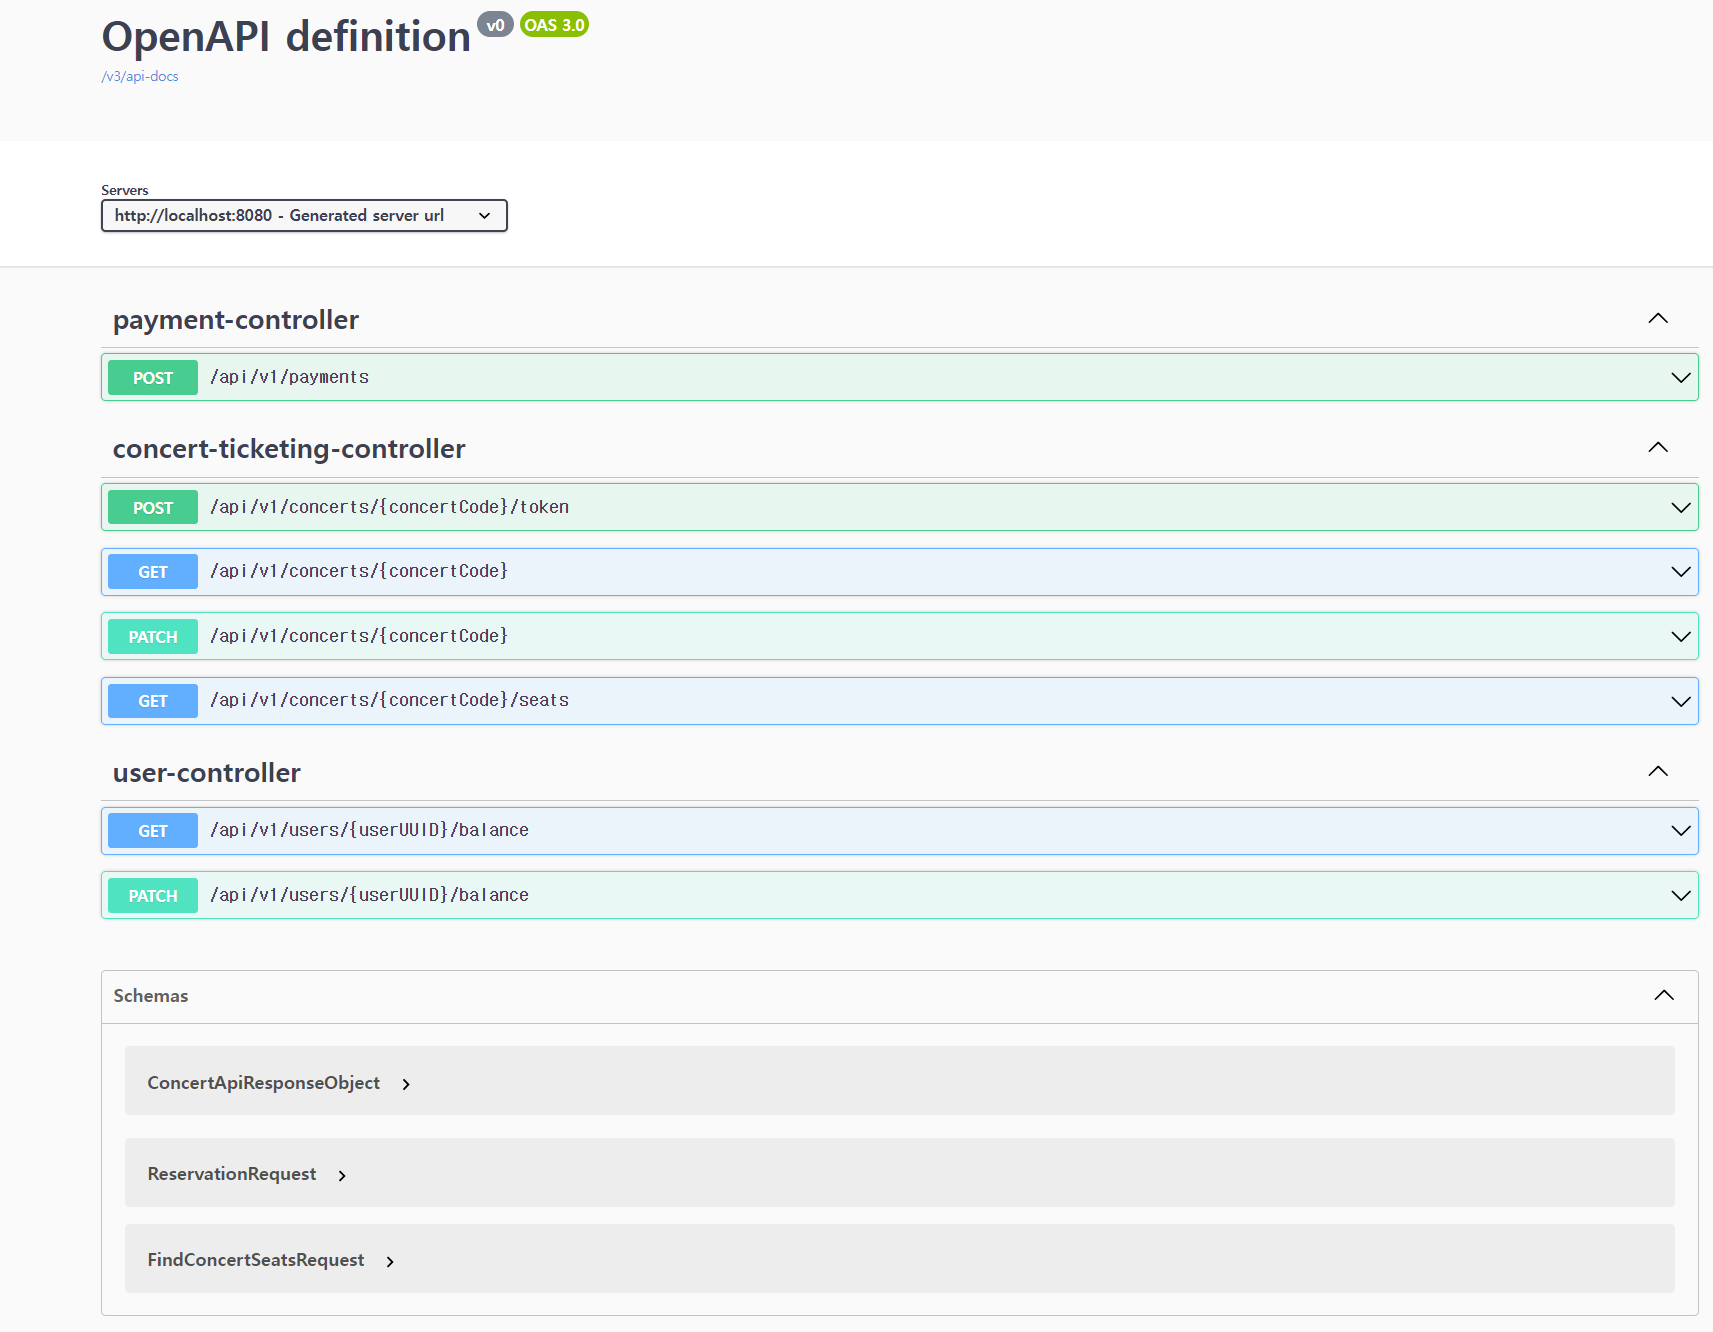
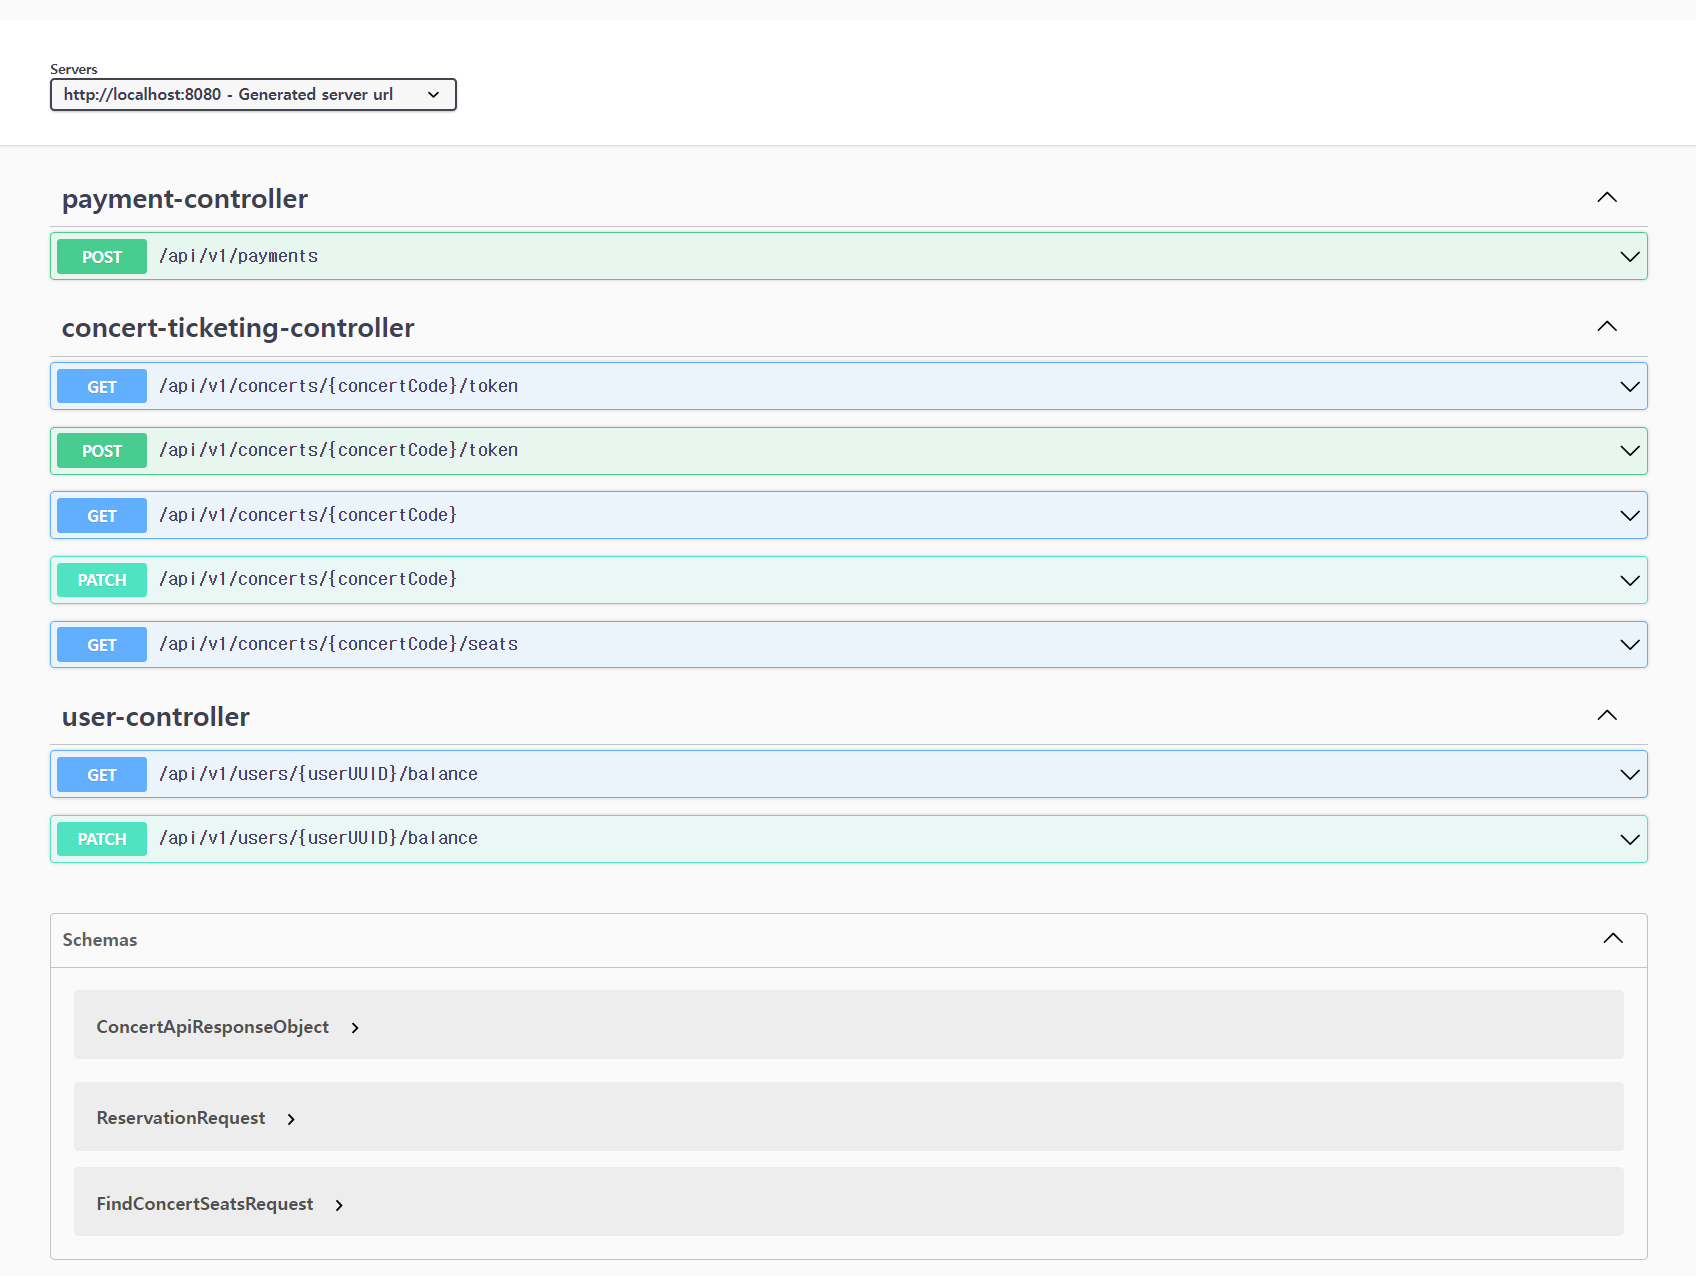
Interceptor 수정

diff --git a/chapter2/ticketing/src/main/java/com/example/ticketing/server/interceptor/token/component/QueueTokenInterceptor.java b/chapter2/ticketing/src/main/java/com/example/ticketing/server/interceptor/token/component/QueueTokenInterceptor.java
@@ -10,6 +10,7 @@ import org.springframework.util.AntPathMatcher;
 import org.springframework.util.PathMatcher;
 import org.springframework.web.servlet.HandlerInterceptor;
 
+import java.util.List;
 import java.util.Map;
 import java.util.Set;
 
@@ -17,10 +18,26 @@ import java.util.Set;
 @RequiredArgsConstructor
 public class QueueTokenInterceptor implements HandlerInterceptor {
 
-    private final Map<String, String> excludePathPatternMap = Map.of(
-            "GET", "/api/v1/concerts/*/token",
-            "POST", "/api/v1/users/*/balance",
-            "PATCH", "/api/v1/users/*/balance"
+    private final List<String> GET_URI = List.of(
+            "/api/v1/concerts/*/token"
+            , "/swagger-ui/**"
+            , "/v3/api-docs/**"
+            , "/error"
+            , "/favicon.ico"
+    );
+
+    private final List<String> POST_URI = List.of(
+            "/api/v1/users/*/balance"
+    );
+
+    private final List<String> PATCH_URI = List.of(
+            "/api/v1/users/*/balance"
+    );
+
+    private final Map<String, List<String>> excludePathPatternMap = Map.of(
+            "GET", GET_URI,
+            "POST", POST_URI,
+            "PATCH", PATCH_URI
     );
     private final PathMatcher matcher = new AntPathMatcher();
     private final QueueTokenVerificationJpaRepository repository;
@@ -32,9 +49,10 @@ public class QueueTokenInterceptor implements HandlerInterceptor {
         String requestURI = request.getRequestURI();
         log.info("Request :: [{}] [{}]", method, requestURI);
 
-        Set<Map.Entry<String, String>> entries = excludePathPatternMap.entrySet();
-        for (Map.Entry<String, String> entry : entries) {
-            if (matcher.match(entry.getValue(), requestURI) && entry.getKey().equals(method)) return true;
+        Set<Map.Entry<String, List<String>>> entries = excludePathPatternMap.entrySet();
+        for (Map.Entry<String, List<String>> entry : entries) {
+            return entry.getValue().stream()
+                    .anyMatch(uri -> matcher.match(uri, requestURI) && entry.getKey().equals(method));
         }
 
         // 토큰 검증 URI의 경우 아래 검증 로직 진행
